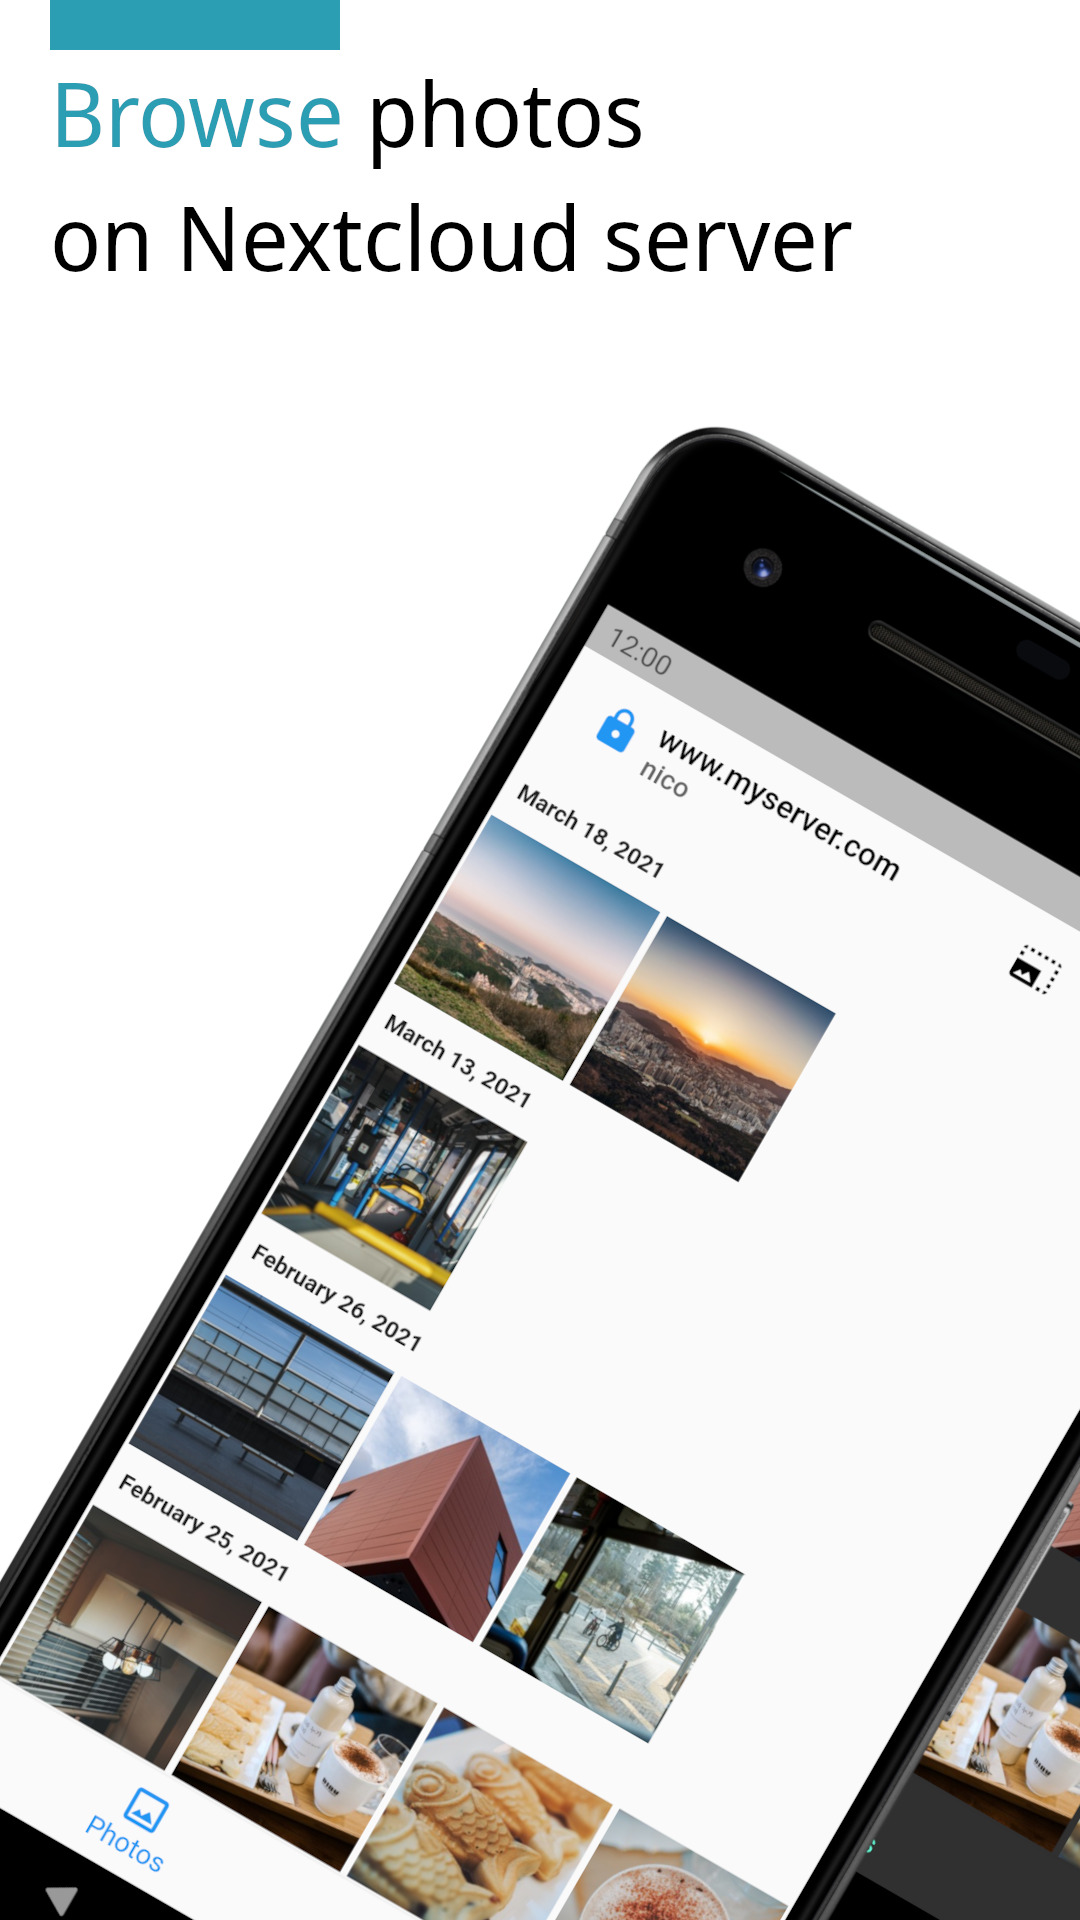
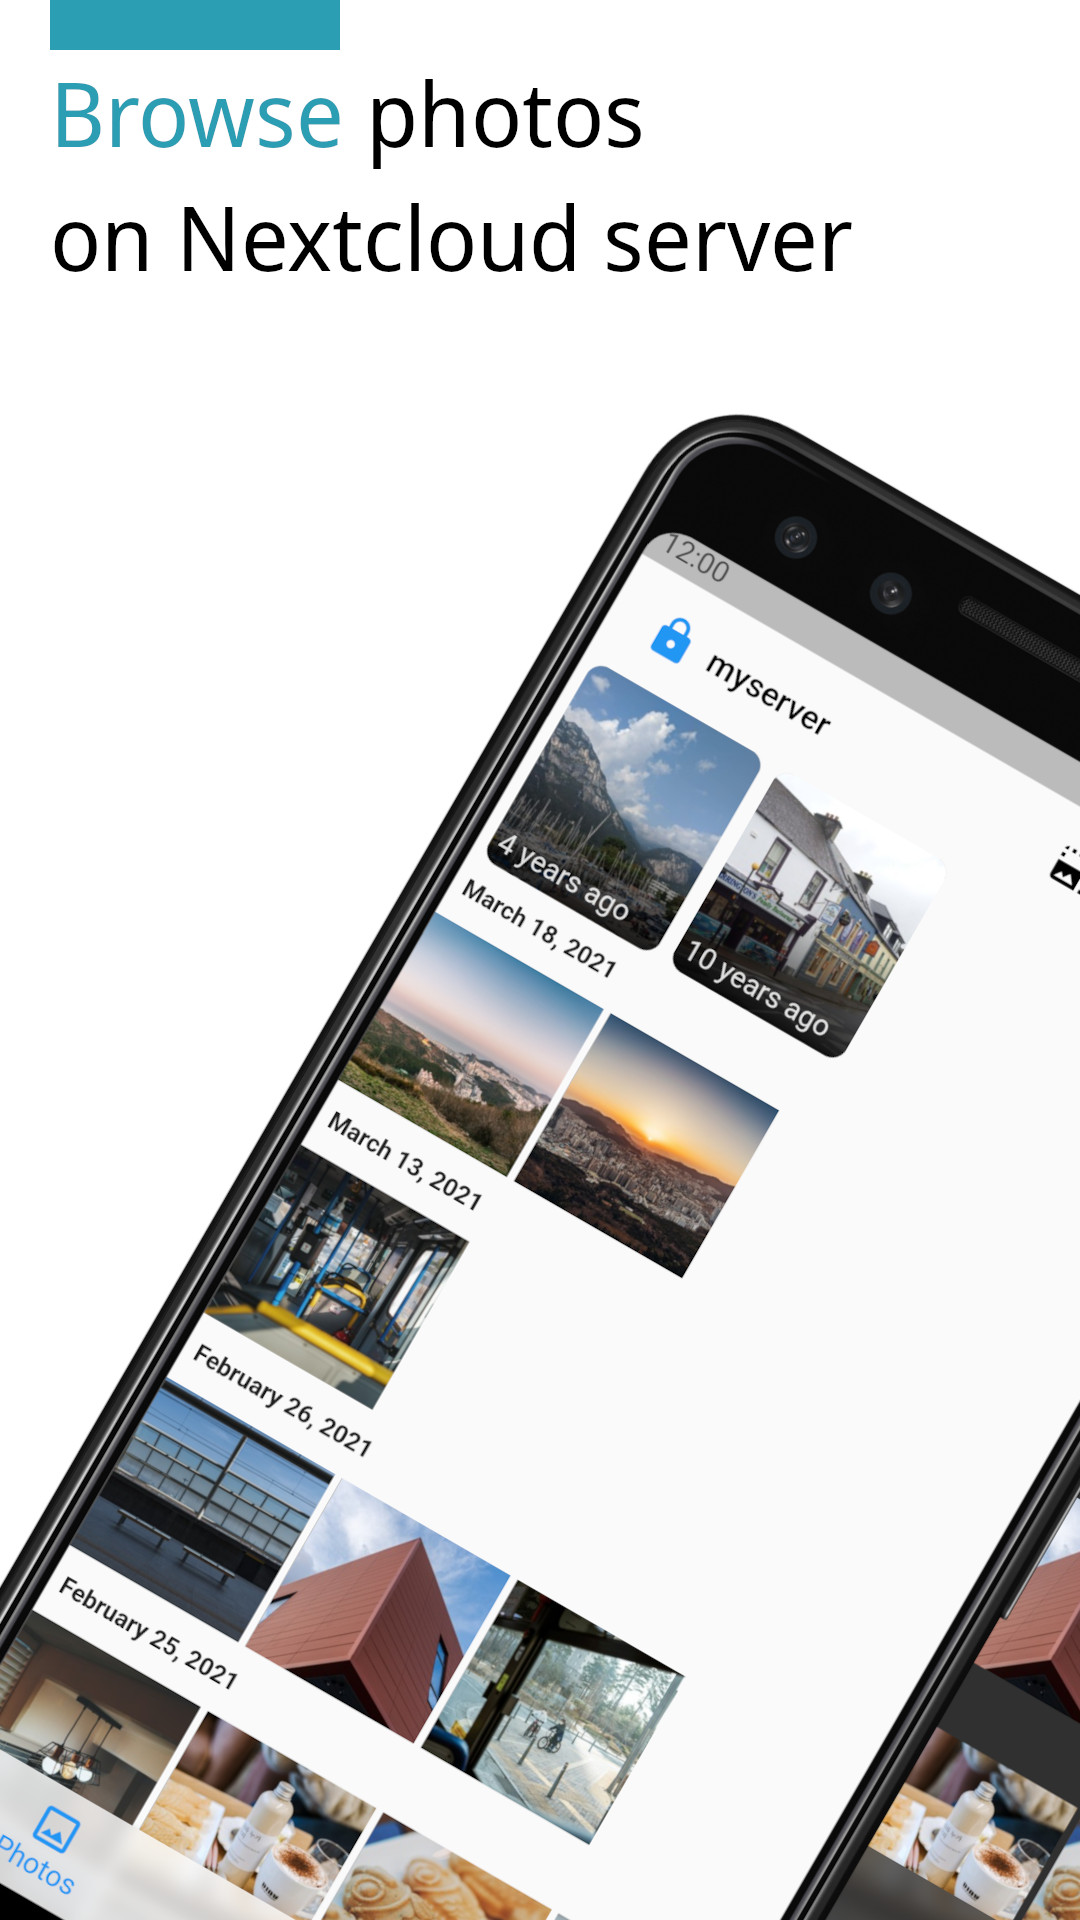
Update screenshots

diff --git a/README.md b/README.md
@@ -17,13 +17,7 @@ Please read [this guide](https://gitlab.com/nkming2/nc-photos/-/wikis/help/web-a
 Please read [this guide](https://gitlab.com/nkming2/nc-photos/-/wikis/development/build)
 
 ## Screenshots
-<img src="https://gitlab.com/nkming2/nc-photos/-/raw/master/fastlane/metadata/android/en-US/images/phoneScreenshots/1.jpg" width="180" />
-<img src="https://gitlab.com/nkming2/nc-photos/-/raw/master/fastlane/metadata/android/en-US/images/phoneScreenshots/2.jpg" width="180" />
-<img src="https://gitlab.com/nkming2/nc-photos/-/raw/master/fastlane/metadata/android/en-US/images/phoneScreenshots/3.jpg" width="180" />
-<img src="https://gitlab.com/nkming2/nc-photos/-/raw/master/fastlane/metadata/android/en-US/images/phoneScreenshots/5.jpg" width="180" />
-<img src="https://gitlab.com/nkming2/nc-photos/-/raw/master/fastlane/metadata/android/en-US/images/phoneScreenshots/6.jpg" width="180" />
-<img src="https://gitlab.com/nkming2/nc-photos/-/raw/master/fastlane/metadata/android/en-US/images/phoneScreenshots/7.jpg" width="180" />
-<img src="https://gitlab.com/nkming2/nc-photos/-/raw/master/fastlane/metadata/android/en-US/images/phoneScreenshots/8.jpg" width="180" />
+<img src="https://gitlab.com/nkming2/nc-photos/-/raw/master/fastlane/metadata/android/en-US/images/phoneScreenshots/1.jpg" width="180" /> <img src="https://gitlab.com/nkming2/nc-photos/-/raw/master/fastlane/metadata/android/en-US/images/phoneScreenshots/2.jpg" width="180" /> <img src="https://gitlab.com/nkming2/nc-photos/-/raw/master/fastlane/metadata/android/en-US/images/phoneScreenshots/3.jpg" width="180" /> <img src="https://gitlab.com/nkming2/nc-photos/-/raw/master/fastlane/metadata/android/en-US/images/phoneScreenshots/4.jpg" width="180" /> <img src="https://gitlab.com/nkming2/nc-photos/-/raw/master/fastlane/metadata/android/en-US/images/phoneScreenshots/5.jpg" width="180" /> <img src="https://gitlab.com/nkming2/nc-photos/-/raw/master/fastlane/metadata/android/en-US/images/phoneScreenshots/6.jpg" width="180" /> <img src="https://gitlab.com/nkming2/nc-photos/-/raw/master/fastlane/metadata/android/en-US/images/phoneScreenshots/7.jpg" width="180" />
 
 ## Features
 - Support JPEG, PNG, WebP, HEIC, GIF images
